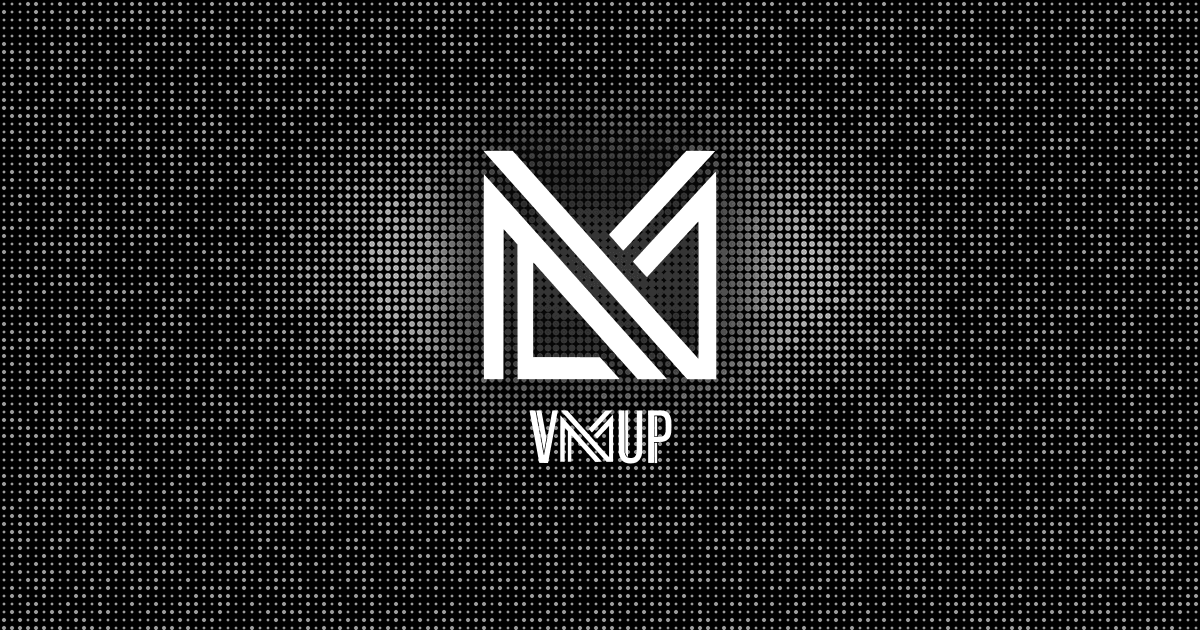
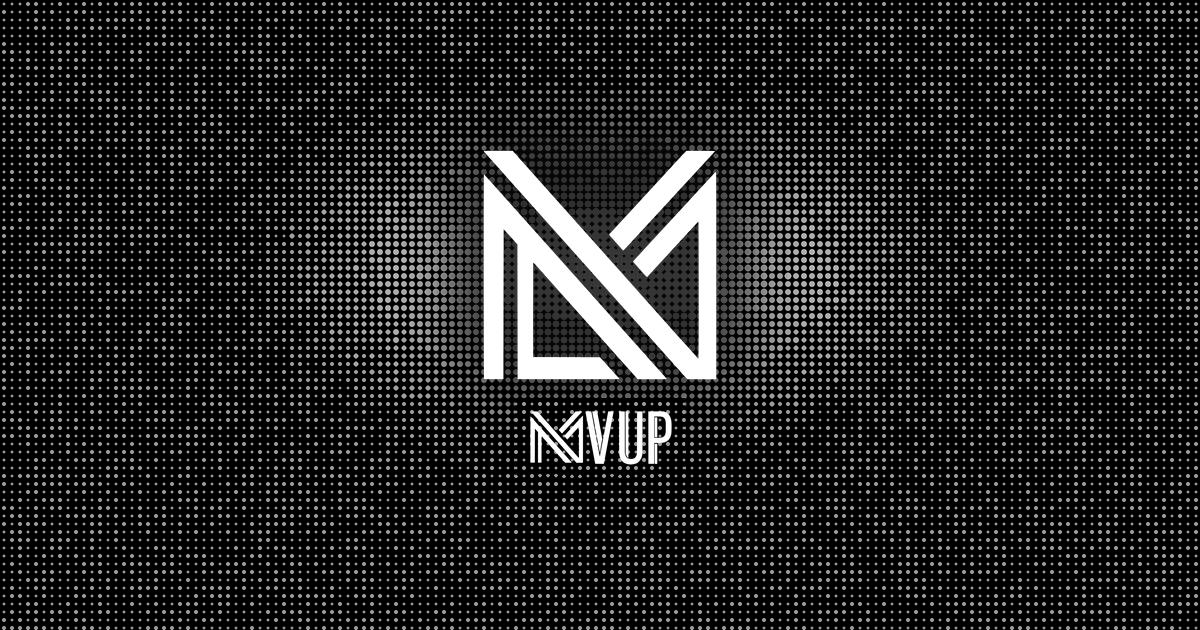
Logotipo corrigido de VNUP para NVUP
Reordena as letras do logotipo (símbolo, V, U, P), refaz a imagem de
compartilhamento e renomeia logo-vnup.png para logo-nvup.png.

Claude-Session: https://claude.ai/code/session_01Rvdn4qYE51dQqHw9Dcarz9

Changed region(s): [[0.4317, 0.6333, 0.5858, 0.754]]

diff --git a/src/data/logo.ts b/src/data/logo.ts
@@ -4,4 +4,4 @@ export const MARK_VIEWBOX = '0 0 1289 1267';
 export const MARK_PATH = 'M 5.2 5.2 C 3.6 7.2, 5.4 10.1, 13.0 17.8 C 14.4 19.3, 20.5 26.0, 26.5 32.9 C 32.5 39.7, 38.4 46.3, 39.5 47.4 C 40.6 48.6, 44.4 52.9, 48 56.9 C 51.5 61.0, 55.4 65.2, 56.5 66.4 C 57.6 67.5, 63.9 74.5, 70.5 82.0 C 83.2 96.5, 96.9 111.8, 101.0 116.1 C 102.3 117.5, 104.8 120.3, 106.5 122.2 C 108.1 124.1, 111.9 128.5, 115 132.0 C 118.0 135.5, 123.2 141.3, 126.5 144.9 C 129.9 148.5, 135.9 155.3, 140.0 160 C 147.1 168.2, 148.4 169.7, 155.2 177.0 C 157.0 178.9, 161.2 183.6, 164.5 187.4 C 167.8 191.2, 171.2 195.1, 172.1 196.0 C 173.0 197.0, 177.5 202.0, 182.0 207.1 C 186.6 212.3, 191.5 217.8, 193.1 219.5 C 199.0 225.8, 202.7 229.8, 208 236.0 C 211.0 239.5, 218.0 247.3, 223.5 253.4 C 229.0 259.5, 236.6 268.1, 240.4 272.5 C 244.3 276.9, 248.3 281.4, 249.4 282.5 C 250.5 283.6, 253.9 287.4, 257 290.9 C 260.0 294.4, 263.6 298.4, 265.0 299.9 C 266.5 301.3, 272.7 308.3, 279.0 315.5 C 285.2 322.6, 292.6 330.9, 295.4 334.0 C 298.2 337.0, 303.4 342.8, 307 346.8 C 310.5 350.9, 314.2 354.9, 315.0 355.8 C 316.5 357.4, 320.5 361.8, 345.3 389.9 C 350.9 396.2, 356.8 402.8, 358.5 404.6 C 360.1 406.4, 364.2 410.9, 367.5 414.6 C 370.8 418.3, 377.7 426.1, 383.0 431.9 C 388.2 437.7, 395.8 446.3, 399.9 451 C 403.9 455.6, 408.2 460.4, 409.3 461.6 C 410.5 462.7, 414.2 466.8, 417.5 470.5 C 420.8 474.3, 425.7 479.9, 428.5 482.9 C 431.3 486.0, 438.7 494.3, 444.9 501.5 C 451.2 508.6, 456.8 514.9, 457.5 515.5 C 458.1 516.0, 462.1 520.5, 466.4 525.5 C 470.7 530.4, 474.7 534.9, 475.3 535.5 C 476.0 536.0, 483.4 544.3, 491.9 554 C 500.4 563.6, 507.6 571.7, 508.0 572 C 508.4 572.2, 510.6 574.7, 513.0 577.5 C 515.3 580.2, 520.7 586.3, 525.0 591 C 537.0 604.2, 556.7 626.3, 565.3 636.3 C 569.7 641.3, 573.8 645.9, 574.5 646.4 C 575.2 647.0, 577.7 649.7, 580.1 652.5 C 582.5 655.3, 590.2 664.1, 597.3 672.0 C 604.4 680.0, 612.7 689.3, 615.8 692.8 C 618.9 696.3, 622.2 699.9, 623.0 700.8 C 626.2 704.1, 643.8 723.8, 654.4 736 C 660.4 742.8, 666.4 749.6, 667.9 751.1 C 669.3 752.5, 673.2 756.8, 676.5 760.5 C 679.8 764.3, 683.4 768.3, 684.5 769.4 C 685.6 770.5, 691.1 776.6, 696.6 783 C 702.1 789.3, 708.2 796.1, 710.1 798.2 C 714.2 802.6, 724.3 814.0, 728.5 818.8 C 731.6 822.4, 736.1 827.4, 740.8 832.5 C 742.4 834.1, 748.5 841.1, 754.5 848 C 764.9 859.9, 769.9 865.5, 778.2 874.4 C 785.5 882.2, 786.7 883.5, 795.7 894 C 800.6 899.7, 806.4 906.3, 808.6 908.5 C 810.7 910.7, 815.3 915.9, 818.9 920.0 C 825.2 927.3, 826.6 928.9, 833.2 936.0 C 835.0 938.0, 841.4 945.1, 847.5 951.9 C 853.5 958.7, 860.7 966.8, 863.5 969.9 C 866.2 973.0, 871.2 978.6, 874.5 982.4 C 877.8 986.1, 881.4 990.2, 882.6 991.3 C 883.7 992.5, 888.0 997.3, 892.0 1002 C 896.1 1006.6, 899.9 1010.9, 900.6 1011.5 C 901.2 1012.0, 905.4 1016.7, 910.0 1022 C 914.5 1027.2, 919.4 1032.6, 920.8 1034.1 C 922.3 1035.5, 925.0 1038.6, 927 1040.9 C 928.9 1043.2, 931.6 1046.4, 933 1047.9 C 940.9 1056.4, 946.9 1063.2, 959.9 1078 C 967.9 1087.0, 975.6 1095.6, 977.0 1097.0 C 978.3 1098.4, 981.9 1102.4, 985 1105.9 C 988.0 1109.3, 991.6 1113.3, 992.9 1114.8 C 995.2 1117.2, 1013.9 1138.2, 1021.5 1146.9 C 1027.6 1153.8, 1035.0 1162.0, 1042.9 1170.5 C 1043.9 1171.6, 1048.0 1176.3, 1052.0 1181 C 1055.9 1185.6, 1061.7 1192.2, 1064.8 1195.5 C 1067.9 1198.8, 1073.6 1205.1, 1077.5 1209.5 C 1081.3 1213.9, 1085.6 1218.7, 1087.0 1220.2 C 1089.8 1223.2, 1089.9 1223.3, 1110.4 1246.3 L 1125.3 1263 1205.1 1263 L 1285 1263 1285 691 C 1285 227.5, 1284.7 119, 1283.7 119 C 1283.0 119, 1278.9 122.9, 1274.5 127.7 C 1270.2 132.5, 1261.4 142.1, 1255.0 148.9 C 1248.7 155.8, 1241.0 164.0, 1238 167.3 C 1234.9 170.6, 1229.8 176.2, 1226.5 179.8 C 1223.2 183.3, 1219.0 187.9, 1217.1 189.9 C 1215.3 191.8, 1212.6 194.8, 1211.0 196.5 C 1205.6 202.4, 1180.5 229.6, 1172.0 238.8 C 1167.3 244.0, 1162.1 249.6, 1160.5 251.4 C 1158.8 253.1, 1153.4 259.0, 1148.5 264.4 C 1143.5 269.9, 1138.5 275.2, 1137.4 276.4 C 1136.3 277.5, 1127.5 287.0, 1118.0 297.5 C 1108.4 307.9, 1099.5 317.6, 1098.0 319.0 C 1095.8 321.2, 1092.0 325.4, 1075 344.1 C 1073.6 345.6, 1068.1 351.4, 1062.9 357.1 C 1057.6 362.8, 1048.3 372.9, 1042.3 379.5 C 1036.3 386.1, 1029.1 393.8, 1026.4 396.7 C 1023.7 399.6, 1018.8 405.0, 1015.5 408.6 C 1012.2 412.3, 1008.1 416.7, 1006.5 418.4 C 997.8 427.5, 978.0 448.9, 968.4 459.5 C 962.4 466.1, 956.4 472.6, 955.0 474.0 C 953.6 475.4, 948.6 480.7, 944 485.9 C 935.3 495.5, 933.6 497.3, 923.9 507.5 C 920.8 510.8, 910.7 521.8, 901.5 532 C 892.2 542.1, 883.5 551.6, 882.1 553.0 C 880.6 554.4, 876.8 558.6, 873.5 562.3 C 870.2 566.1, 865.0 571.8, 862 575.0 C 855.0 582.4, 840.2 598.4, 832.0 607.3 C 826.6 613.2, 826.0 614.3, 827.1 615.7 C 829.2 618.4, 857.0 650.2, 859.3 652.6 C 862.5 655.9, 865.0 658.7, 872.7 667.6 C 876.6 672.1, 881.3 677.5, 883.3 679.5 C 885.2 681.5, 890.1 686.9, 894.1 691.5 C 900.4 698.7, 904.9 702.0, 905.0 699.2 C 905.0 698.8, 907.1 696.2, 909.7 693.4 C 915.4 687.4, 928.7 673.2, 934.4 667 C 936.7 664.5, 946.4 653.9, 955.9 643.5 C 965.5 633.0, 974.6 623.1, 976.1 621.5 C 984.5 612.6, 991.3 605.2, 999.1 596.8 C 1003.8 591.7, 1014.1 580.5, 1022.0 572 C 1042.1 550.1, 1046.3 545.5, 1056 534.9 C 1060.6 529.8, 1066.0 523.9, 1068 521.9 C 1075.9 513.6, 1083.3 505.6, 1097.1 490.5 C 1105.1 481.7, 1113.8 472.2, 1116.4 469.5 C 1118.9 466.7, 1123.6 461.6, 1126.7 458.1 C 1129.9 454.6, 1133.6 450.6, 1135.0 449.1 C 1136.5 447.7, 1143.8 439.7, 1151.5 431.5 C 1159.1 423.2, 1168.0 413.5, 1171.4 409.9 C 1174.7 406.3, 1179.3 401.2, 1181.7 398.6 C 1184.0 395.9, 1186.3 394.1, 1186.9 394.4 C 1188.3 395.3, 1188.4 1148.6, 1187.0 1149.4 C 1186.5 1149.7, 1185.2 1148.8, 1184.0 1147.3 C 1182.9 1145.9, 1178.9 1141.3, 1175.2 1137.3 C 1164.4 1125.4, 1162.8 1123.6, 1157 1117.0 C 1153.9 1113.5, 1150.5 1109.7, 1149.4 1108.6 C 1148.2 1107.4, 1142.2 1100.6, 1136.0 1093.5 C 1129.7 1086.3, 1124.1 1080.0, 1123.4 1079.4 C 1122.8 1078.9, 1118.7 1074.4, 1114.3 1069.4 C 1102.4 1055.9, 1097.1 1050.1, 1090.5 1043.3 C 1083.0 1035.7, 1081.2 1033.7, 1071.4 1022.5 C 1067.1 1017.5, 1062.3 1012.1, 1060.8 1010.5 C 1057.0 1006.5, 1053.6 1002.6, 1047 994.9 C 1041.6 988.7, 1038.0 984.7, 1032.1 978.5 C 1029.5 975.6, 1020.3 965.1, 1008.5 951.5 C 1005.7 948.3, 1002.5 944.7, 1001.3 943.5 C 1000.2 942.4, 995.7 937.4, 991.4 932.5 C 987.1 927.5, 981.7 921.4, 979.4 919 C 977.1 916.5, 971.2 910, 966.4 904.5 C 961.6 899, 956.9 893.6, 955.8 892.5 C 953.0 889.4, 948.0 883.8, 942 876.9 C 938.9 873.4, 932.2 865.8, 926.9 860.0 C 921.7 854.2, 914.0 845.6, 910.0 841 C 905.9 836.3, 901.7 831.5, 900.5 830.3 C 899.4 829.2, 897.0 826.5, 895.1 824.3 C 891.5 820.1, 891.6 820.1, 877.8 805 C 872.6 799.2, 863.8 789.3, 858.3 783 C 852.9 776.6, 847.0 770.1, 845.4 768.4 C 842.2 765.1, 834.7 756.7, 816.0 735.5 C 809.2 727.8, 802.7 720.5, 801.5 719.3 C 800.4 718.2, 798.1 715.6, 796.5 713.7 C 787.1 702.9, 782.1 697.3, 779.1 694.0 C 777.2 692.1, 770.9 685.1, 765.2 678.5 C 754.5 666.3, 743.0 653.4, 732.9 642.5 C 729.8 639.2, 722.5 630.8, 716.5 624 C 710.5 617.1, 704.7 610.6, 703.5 609.5 C 702.2 608.4, 697.0 602.5, 691.9 596.5 C 686.7 590.4, 681.4 584.3, 680.0 582.9 C 678.6 581.6, 673 575.3, 667.5 569.0 C 662 562.7, 656.1 556.1, 654.5 554.4 C 652.8 552.6, 649.0 548.3, 646 544.8 C 642.9 541.3, 639.3 537.3, 637.9 536.0 C 636.5 534.6, 628.7 525.8, 620.5 516.5 C 612.2 507.1, 605.3 499.2, 604.9 499 C 604.6 498.7, 600.8 494.4, 596.5 489.5 C 592.2 484.5, 587.9 479.8, 587.0 479 C 586.1 478.1, 582.2 473.9, 578.4 469.5 C 574.6 465.1, 571.2 461.2, 571 461 C 570.7 460.7, 567.1 456.6, 563 452.0 C 558.8 447.3, 554.8 442.8, 554 441.9 C 553.1 441.1, 549.8 437.3, 546.5 433.5 C 543.2 429.8, 539.7 426.0, 538.8 425.1 C 537.9 424.2, 533.7 419.4, 529.5 414.5 C 525.2 409.5, 521.2 405.0, 520.6 404.5 C 519.9 403.9, 512.8 396.0, 504.9 387 C 496.9 377.9, 489.0 369.1, 487.4 367.4 C 482.8 362.6, 470.5 348.8, 457.9 334.5 C 451.7 327.3, 445.4 320.3, 444.0 318.8 C 442.6 317.4, 440.1 314.7, 438.5 312.8 C 436.8 310.9, 433.0 306.5, 430 303.0 C 426.9 299.6, 423.1 295.3, 421.4 293.6 C 419.8 291.9, 412.2 283.3, 404.6 274.7 C 397.0 266.0, 389.8 257.8, 388.6 256.6 C 383.4 251.1, 369.3 235.4, 358.9 223.5 C 352.6 216.3, 346.6 209.5, 345.5 208.4 C 344.4 207.3, 340.8 203.3, 337.5 199.6 C 334.2 195.8, 330.1 191.3, 328.5 189.4 C 326.8 187.6, 324.5 185.1, 323.4 183.8 C 315.7 175.0, 303.2 161.1, 301.5 159.4 C 300.4 158.2, 297.0 154.4, 294 150.9 C 287.7 143.6, 285.3 140.9, 277.7 132.5 C 267.3 121.0, 245.4 96.4, 238.5 88.4 C 234.7 84.0, 230.9 79.8, 230.0 79 C 229.1 78.1, 225.0 73.6, 220.9 69 C 216.8 64.3, 213.0 60.0, 212.3 59.5 C 211.7 58.9, 206.1 52.6, 199.9 45.5 C 193.7 38.3, 187.3 31.0, 185.6 29.1 C 183.8 27.3, 181.5 24.9, 180.4 23.6 C 179.2 22.4, 175.2 17.9, 171.4 13.5 C 167.6 9.1, 164.0 5.1, 163.5 4.7 C 161.6 3.3, 6.3 3.8, 5.2 5.2 M 1120.3 4.6 C 1119.2 5.0, 1103.6 21.5, 1085.5 41.3 C 1076.5 51.2, 1076.2 51.6, 1059.8 69.0 C 1053.5 75.9, 1046.5 83.5, 1044.3 86.0 C 1041.0 89.9, 1034.4 97.0, 1023.5 108.5 C 1021.8 110.2, 1016.6 115.9, 1012 121.0 C 1007.3 126.2, 1002.1 131.8, 1000.5 133.6 C 997.4 136.9, 986.0 149.3, 972.9 163.5 C 968.9 167.9, 962.6 174.6, 959.0 178.5 C 955.4 182.4, 948.6 189.8, 944 195.0 C 939.3 200.2, 934.1 205.8, 932.5 207.5 C 930.8 209.2, 925.2 215.3, 920 220.9 C 914.7 226.6, 909.3 232.4, 908 233.9 C 906.6 235.4, 901.2 241.3, 896 247.0 C 890.7 252.8, 885.1 258.9, 883.4 260.6 C 881.7 262.4, 876.9 267.6, 872.9 272.1 C 868.8 276.7, 864.3 281.6, 863 283.0 C 861.6 284.4, 856.4 289.9, 851.5 295.3 C 842.4 305.1, 839.7 308.1, 831.0 317.5 C 828.5 320.2, 821.0 328.3, 814.4 335.5 C 798.3 353.0, 794.0 357.7, 790.5 361.5 C 788.8 363.2, 783.4 369.0, 778.5 374.4 C 773.5 379.8, 768.1 385.7, 766.5 387.5 C 764.8 389.2, 759.2 395.3, 754 401.0 C 748.7 406.7, 741.1 415.0, 737.0 419.4 C 732.9 423.8, 727.1 430.2, 724.0 433.5 C 706.9 452.2, 700.2 459.4, 697.6 461.9 C 693.7 465.6, 694.4 467.9, 701.6 475.3 C 704.7 478.6, 710.4 484.9, 714.3 489.3 C 722.9 499.4, 724.9 501.6, 727.5 504.3 C 729.8 506.7, 740.6 518.9, 751.5 531.4 C 755.3 535.8, 760.7 541.8, 763.4 544.7 C 766.1 547.6, 768.9 550.9, 769.7 552.0 C 772.3 555.7, 772.6 555.5, 799.5 526.1 C 802.8 522.5, 807.0 518.0, 809 515.9 C 813.7 511.0, 819.5 504.7, 833.4 489.5 C 839.9 482.3, 846.4 475.3, 847.8 473.9 C 849.3 472.5, 853.2 468.3, 856.5 464.6 C 862.9 457.3, 862.9 457.2, 879.5 439.4 C 885.6 432.8, 896.6 420.9, 903.9 413 C 911.3 405.0, 920.2 395.3, 923.9 391.4 C 927.5 387.5, 934.3 380.1, 939 374.9 C 943.6 369.8, 948.4 364.6, 949.5 363.5 C 958.5 353.9, 968.0 343.7, 976.5 334.5 C 982 328.5, 987.6 322.4, 989 320.9 C 990.3 319.5, 995.5 313.9, 1000.5 308.5 C 1011.3 296.6, 1020.4 286.7, 1024.5 282.4 C 1026.1 280.7, 1031.3 275.0, 1036.1 269.8 C 1040.8 264.7, 1050.9 253.7, 1058.6 245.4 C 1066.2 237.1, 1076.3 226.1, 1081 221.0 C 1085.6 215.9, 1091.0 210.0, 1093 208.0 C 1102.9 197.5, 1121.6 177.2, 1142.4 154.5 C 1147.4 149.1, 1153.0 143.0, 1155 141.0 C 1156.9 139.0, 1161.2 134.3, 1164.5 130.6 C 1167.8 126.9, 1173.2 121.1, 1176.5 117.6 C 1183.9 109.7, 1188.5 104.8, 1203.4 88.5 C 1210.0 81.3, 1217.4 73.2, 1220.0 70.5 C 1229.4 60.3, 1231.6 58.0, 1237.5 51.4 C 1240.8 47.7, 1246.2 41.9, 1249.5 38.4 C 1262.7 24.6, 1278.5 6.8, 1278.5 5.7 C 1278.5 4.5, 1123.2 3.4, 1120.3 4.6 M 4.6 135.5 C 3.1 139.2, 3.9 1260.7, 5.3 1261.8 C 6.3 1262.7, 21.3 1262.9, 59.6 1262.7 L 112.5 1262.5 113 850.3 C 113.2 623.6, 113.7 437.9, 114.0 437.5 C 114.4 437.2, 117.7 440.4, 121.5 444.6 C 125.3 448.8, 129.6 453.5, 131 455.0 C 132.3 456.5, 136.0 460.6, 139.1 464.1 C 183.5 514.2, 179.9 510.2, 186 516.4 L 189.5 520.0 190 891.2 L 190.5 1262.5 469 1262.7 C 622.1 1262.9, 748.5 1262.8, 749.7 1262.4 C 752.6 1261.8, 751.6 1259.7, 745.7 1253.6 C 743.5 1251.3, 736.3 1243.4, 729.7 1236 C 717.4 1222.1, 702.0 1205.2, 698.5 1201.5 C 697.4 1200.4, 693.1 1195.6, 689.0 1191.0 C 685.0 1186.3, 681.3 1182.2, 681.0 1182 C 680.6 1181.7, 676.3 1176.9, 671.4 1171.4 C 666.5 1165.9, 660.2 1159.0, 657.5 1156.0 C 654.7 1153.0, 650.6 1148.5, 648.3 1146.0 L 644.1 1141.5 460.3 1141 L 276.5 1140.5 276.2 881.6 C 276.1 739.3, 276.3 622.2, 276.7 621.4 C 277.8 619.5, 278.9 620.6, 290.5 634 C 296.0 640.3, 303.0 648.2, 306.1 651.5 C 309.2 654.8, 316.4 662.9, 322.1 669.5 C 327.8 676.1, 333.6 682.6, 335.0 684.0 C 339.3 688.4, 346.9 696.9, 361.9 714 C 369.9 723.0, 377.6 731.6, 379.0 733.0 C 380.3 734.4, 383.9 738.4, 387 741.9 C 390.0 745.4, 393.6 749.5, 394.9 750.9 C 396.3 752.3, 401.9 758.6, 407.5 765 C 413.1 771.3, 419.0 777.8, 420.5 779.5 C 422.1 781.1, 426.5 786.1, 430.3 790.5 C 434.1 794.9, 438.1 799.4, 439.3 800.6 C 440.5 801.8, 442.4 803.8, 443.5 805.1 C 447.7 809.8, 455.6 818.8, 462.5 826.5 C 466.3 830.8, 471.9 837.2, 475 840.5 C 478.0 843.9, 482.9 849.4, 486 852.9 C 489.0 856.4, 493.0 860.9, 495 862.9 C 498.4 866.5, 513.6 883.5, 529.4 901.4 C 533.7 906.3, 538.0 911.0, 538.9 911.9 C 539.7 912.9, 543.2 916.7, 546.5 920.5 C 549.8 924.3, 553.4 928.3, 554.5 929.5 C 557.7 932.9, 573.0 950.0, 579 956.9 C 582.0 960.4, 585.6 964.5, 586.9 965.9 C 588.3 967.3, 592.8 972.3, 596.9 976.9 C 600.9 981.6, 605.0 986.1, 606.0 986.9 C 606.9 987.8, 611.7 993.2, 616.7 999 C 621.7 1004.7, 627.5 1011.3, 629.5 1013.5 C 631.6 1015.7, 636.3 1020.8, 639.9 1025 C 643.5 1029.1, 647.6 1033.7, 649.0 1035.2 C 650.3 1036.6, 653.7 1040.5, 656.6 1043.7 C 659.4 1046.8, 666.3 1054.6, 672.1 1061 C 677.8 1067.3, 685.4 1075.8, 688.9 1080 C 692.4 1084.1, 696.5 1088.6, 697.9 1090.1 C 699.3 1091.5, 703.4 1096.0, 707 1100.0 C 710.5 1104.0, 714.1 1108.0, 715.0 1108.8 C 715.9 1109.7, 721.4 1116.1, 727.4 1123 C 733.4 1129.8, 739.5 1136.8, 741.1 1138.5 C 745.0 1142.7, 749.9 1148.0, 754 1152.6 C 755.9 1154.8, 760.7 1160.1, 764.6 1164.5 C 768.5 1168.9, 775.9 1177.2, 781.0 1183 C 793.2 1196.8, 804.9 1209.8, 807.9 1212.9 C 809.2 1214.3, 816.6 1222.6, 824.3 1231.4 C 832.0 1240.2, 840.7 1249.9, 843.7 1253.0 C 846.6 1256.0, 849.7 1259.5, 850.5 1260.7 L 852.1 1263 932.5 1263 C 985.9 1263, 1013 1262.6, 1013 1261.9 C 1013 1261.1, 1002.1 1248.3, 993.8 1239.5 C 982.3 1227.1, 979.0 1223.4, 979.0 1222.9 C 979.0 1222.5, 977.5 1220.7, 975.7 1218.8 C 968.9 1211.6, 953.9 1195.1, 946.8 1186.9 C 942.8 1182.3, 938.6 1177.5, 937.5 1176.3 C 936.4 1175.2, 933.9 1172.5, 932.1 1170.3 C 930.2 1168.2, 925.2 1162.6, 921.0 1158 C 911.9 1147.9, 891.9 1125.5, 880.0 1112.0 C 875.4 1106.8, 871.1 1102.0, 870.5 1101.5 C 869.8 1100.9, 866.2 1096.9, 862.4 1092.5 C 854.8 1083.7, 850.1 1078.4, 842.4 1070.0 C 839.7 1066.9, 835.6 1062.4, 833.4 1059.9 C 831.2 1057.4, 826.0 1051.6, 821.8 1046.9 C 812.7 1036.8, 788.9 1010.1, 780.5 1000.5 C 777.2 996.8, 773.5 992.7, 772.3 991.6 C 771.1 990.4, 768.2 987.2, 765.8 984.4 C 760.9 978.6, 733.2 947.5, 728.1 942.0 C 722.8 936.3, 720.7 933.9, 713.9 926 C 710.4 921.8, 706.3 917.3, 704.8 916 C 703.4 914.6, 697.3 907.8, 691.4 901 C 685.5 894.1, 679.8 887.6, 678.7 886.5 C 677.7 885.4, 675.4 882.8, 673.7 880.9 C 671.9 878.9, 668.0 874.6, 665 871.4 C 661.9 868.1, 653.0 858.0, 645.0 849.0 C 637.1 839.9, 630.0 832.0, 629.4 831.5 C 628.7 830.9, 624.9 826.6, 620.9 822 C 617.0 817.3, 613.0 812.8, 612.0 812 C 610.5 810.7, 600.6 799.5, 585.5 782.0 C 583.3 779.5, 580.6 776.5, 579.5 775.4 C 578.4 774.2, 575.0 770.4, 572 766.9 C 568.9 763.4, 565.1 759.2, 563.4 757.5 C 561.7 755.8, 557.2 750.9, 553.4 746.5 C 549.6 742.1, 546.0 738.0, 545.4 737.5 C 544.8 736.9, 539.2 730.6, 533.0 723.5 C 526.8 716.3, 520.5 709.2, 519.1 707.8 C 517.6 706.3, 513.8 702.1, 510.5 698.3 C 507.2 694.6, 501.9 688.8, 498.9 685.5 C 495.8 682.2, 488.2 673.6, 481.9 666.5 C 475.7 659.3, 470.0 653.0, 469.3 652.5 C 468.7 651.9, 464.9 647.6, 461 643 C 457.0 638.3, 453.2 634.0, 452.5 633.5 C 451.5 632.7, 436.6 615.8, 425.9 603.5 C 423.6 600.8, 411.6 587.6, 405.5 580.9 C 402.7 577.9, 397.3 571.9, 393.5 567.5 C 386.0 558.7, 375.2 546.6, 370.5 541.5 C 368.8 539.7, 365.0 535.5, 362 532.0 C 358.9 528.6, 355.1 524.3, 353.5 522.5 C 351.8 520.7, 345.5 513.7, 339.5 506.9 C 333.5 500.0, 328.1 494.0, 327.4 493.5 C 326.8 492.9, 323.0 488.6, 319.0 484 C 315.0 479.3, 310.8 474.5, 309.6 473.3 C 304.2 467.8, 299.9 462.9, 294.4 456.5 C 289.3 450.4, 275.6 435.0, 266.8 425.5 C 261.5 419.6, 257.4 415.1, 255.0 412.3 C 250.6 407.2, 243.8 399.6, 235.5 390.5 C 230.9 385.5, 223.8 377.4, 219.5 372.5 C 215.3 367.5, 211.2 363.0, 210.5 362.5 C 209.8 361.9, 206.0 357.6, 202 353 C 197.9 348.3, 194.1 344.0, 193.4 343.5 C 192.8 342.9, 185.5 334.8, 177.4 325.5 C 169.2 316.1, 161.7 307.8, 160.8 307 C 159.9 306.1, 155.8 301.6, 151.9 297 C 147.9 292.3, 144.1 288.0, 143.4 287.5 C 142.8 286.9, 136.9 280.4, 130.4 273 C 119.6 260.5, 107.9 247.4, 100.5 239.4 C 96.5 235.1, 95.4 233.9, 81.0 217.5 C 74.2 209.8, 68.3 203.2, 68.0 203 C 67.7 202.7, 64.1 198.6, 60.1 194 C 56.0 189.3, 51.9 184.7, 50.9 183.8 C 49.9 182.9, 45.7 178.4, 41.7 173.7 C 28.0 157.8, 8.8 136.5, 7.0 135.2 C 5.5 134.1, 5.1 134.1, 4.6 135.5';
 
 export const WORD_VIEWBOX = '0 0 1278 483';
-export const WORD_PATH = 'M 4 5.5 C 4 6.3, 4.8 10.9, 5.8 15.7 C 6.9 20.5, 8.0 26.7, 8.4 29.5 C 8.8 32.2, 10.1 39.6, 11.5 46 C 12.8 52.3, 14.5 61.5, 15.4 66.5 C 16.2 71.4, 17.6 79.1, 18.5 83.5 C 19.3 87.9, 21.4 98.9, 23.1 108 C 24.8 117.0, 27.3 130.1, 28.7 137 C 30.1 143.8, 31.6 152.4, 32.0 156 C 32.5 159.5, 33.7 166.3, 34.9 171 C 36.0 175.6, 37.4 183.0, 38.0 187.3 C 38.6 191.6, 40.4 200.9, 42.0 207.8 C 43.6 214.8, 44.9 221.7, 44.9 223.2 C 44.9 224.7, 46.3 231.9, 47.8 239.2 C 49.4 246.5, 51.0 254.9, 51.4 258 C 51.8 261.0, 53.0 267.3, 54.1 271.9 C 55.1 276.6, 56.5 283.8, 57.1 287.9 C 57.6 292.1, 59.0 299.1, 60.0 303.5 C 61.0 307.9, 62.6 316.1, 63.4 321.7 C 64.2 327.4, 65.6 334.6, 66.4 337.8 C 67.2 341.0, 68.4 347.2, 69.0 351.6 C 69.6 355.9, 71.0 363.2, 72.1 367.8 C 73.1 372.5, 74.4 379.4, 75.0 383.3 C 75.5 387.3, 77.3 396.8, 78.9 404.5 C 83.0 423.9, 87.0 444.8, 88.6 455.5 C 89.4 460.5, 90.6 466.6, 91.3 469.0 L 92.5 473.5 130.8 473.7 L 169.0 474.0 169.8 471.7 C 170.8 469.2, 172.2 462.0, 176.9 436 C 178.7 426.3, 181.4 411.9, 183.1 404 C 184.7 396.0, 186.5 386.5, 187.0 383 C 187.5 379.4, 189.1 371.1, 190.4 364.5 C 191.7 357.9, 194.2 344.6, 196.0 335 C 197.7 325.3, 200.1 313, 201.1 307.5 C 202.2 302, 203.7 293.4, 204.5 288.5 C 205.4 283.5, 207.1 274.3, 208.4 268 C 209.7 261.6, 211.2 253.5, 211.7 250 C 213.0 241.4, 216.4 224.0, 220.1 206 C 221.8 198.0, 223.7 187.4, 224.5 182.5 C 225.3 177.5, 226.6 170.3, 227.5 166.5 C 228.3 162.6, 229.5 156.3, 230.0 152.5 C 230.6 148.6, 232.1 140.3, 233.4 134 C 237.4 114.4, 242.0 89.5, 242.0 88 C 241.9 87.1, 243.2 79.9, 244.8 72 C 247.5 59.1, 250.6 42.6, 255.4 16 C 256.3 11.3, 257.0 6.7, 257.0 5.7 C 257 4.1, 255.1 4, 233.0 4 L 209.0 4 208.0 7.6 C 207.5 9.6, 206.5 14.7, 205.9 18.8 C 205.3 23.0, 203.7 31.4, 202.4 37.5 C 201.0 43.5, 199.5 51.8, 199.0 56 C 198.5 60.1, 197.1 67.3, 196.0 72 C 194.9 76.6, 193.6 84.2, 193.0 88.7 C 192.5 93.2, 191.3 99.6, 190.5 102.9 C 189.6 106.2, 188.2 113.5, 187.4 119.2 C 186.5 124.8, 185.0 132.8, 184.0 137 C 182.9 141.1, 181.6 148.1, 180.9 152.5 C 180.2 156.9, 178.6 165.4, 177.3 171.5 C 176.0 177.5, 174.5 185.8, 174.0 190 C 173.4 194.1, 172.1 201.2, 171.0 205.8 C 169.9 210.3, 168.7 216.6, 168.3 219.8 C 168.0 222.9, 166.7 230.0, 165.4 235.6 C 164.1 241.2, 162.6 249.3, 162.0 253.6 C 161.5 257.9, 159.9 266.4, 158.5 272.5 C 157.1 278.5, 156.0 284.6, 156.0 286 C 156.0 287.3, 154.4 295.9, 152.5 305 C 150.6 314.0, 148.6 324.2, 148.1 327.5 C 147.6 330.8, 146.2 338.6, 145.0 345 C 141.7 362.1, 137.3 385.3, 135.5 395.4 C 133.1 408.3, 132.5 408.5, 130.7 397.3 C 129.8 391.9, 128.1 382.7, 127.0 377 C 125.9 371.2, 123.6 358.8, 121.9 349.5 C 120.1 340.1, 117.2 325.2, 115.3 316.2 C 113.5 307.3, 112.0 299.0, 112.0 297.7 C 112.0 296.5, 110.7 288.9, 109.1 281 C 103.7 254.4, 101.7 243.5, 100.3 234.8 C 99.6 230.0, 98.3 223.0, 97.4 219.3 C 96.6 215.5, 95.2 208.3, 94.4 203.1 C 93.6 198.0, 92.1 189.7, 91.0 184.6 C 89.9 179.6, 88.8 173.4, 88.4 171 C 87.7 165.8, 83.3 142.5, 78.9 121 C 77.3 113.0, 75.6 103.3, 75.0 99.5 C 74.5 95.6, 73.1 88.2, 71.9 83 C 70.8 77.7, 69.4 70.1, 68.8 66 C 68.3 61.8, 66.9 54.8, 65.9 50.3 C 64.8 45.8, 63.5 38.7, 63.0 34.5 C 62.4 30.3, 61.1 23.2, 60.1 18.7 C 59.0 14.2, 57.8 9.0, 57.5 7.2 L 56.8 4 30.4 4 C 7.5 4, 4 4.2, 4 5.5 M 64.6 4.8 C 64.3 5.2, 64.9 8.9, 65.9 13.0 C 67.0 17.1, 68.3 24.3, 69.0 29 C 69.6 33.6, 71.0 41.1, 72.0 45.6 C 73.1 50.1, 74.4 57.2, 75.0 61.6 C 75.5 65.9, 77.1 74.1, 78.5 79.9 C 79.9 85.7, 81.5 94.1, 82.0 98.5 C 82.6 102.9, 83.9 110.3, 85.0 115 C 86.1 119.6, 87.5 127.0, 88.0 131.3 C 88.6 135.6, 90.1 143.7, 91.4 149.3 C 92.7 154.9, 94.0 162.2, 94.4 165.5 C 94.7 168.8, 95.9 175.1, 96.9 179.5 C 98.0 183.9, 99.5 192.1, 100.4 197.7 C 101.2 203.4, 102.6 210.7, 103.5 214.0 C 104.3 217.3, 105.5 223.7, 106.0 228.2 C 106.6 232.7, 107.9 240.1, 109.0 244.5 C 110.1 248.9, 111.5 255.8, 112.0 260 C 112.5 264.1, 114.3 273.5, 115.9 281 C 117.5 288.4, 119.2 297.4, 119.7 301 C 120.2 304.5, 121.6 312.4, 122.8 318.5 C 124.0 324.5, 125.6 333.1, 126.4 337.5 C 127.2 341.9, 128.5 348.8, 129.3 353 C 130.1 357.1, 131.2 362.9, 131.6 366 C 132.8 373.7, 134.2 372.8, 135.7 363.5 C 136.4 359.1, 138.1 349.4, 139.5 342 C 140.9 334.5, 142.7 324.2, 143.4 319 C 144.2 313.7, 145.7 305, 146.8 299.5 C 147.9 294, 149.2 286.1, 149.8 282 C 150.4 277.8, 152.0 269.1, 153.4 262.5 L 156.0 250.5 152.5 234 C 150.6 224.9, 148.6 214.5, 148.1 211 C 147.5 207.4, 146.2 200, 145.1 194.5 C 144.0 189, 141.7 176.6, 140.0 167 C 138.2 157.3, 135.5 142.7, 134.0 134.5 C 132.4 126.2, 129.7 111.6, 128.0 102 C 126.2 92.3, 123.7 79.1, 122.4 72.5 C 121.1 65.9, 119.3 56, 118.4 50.5 C 117.5 45, 115.9 36.9, 114.9 32.5 C 113.8 28.1, 112.5 20.7, 111.9 16.0 C 110.3 2.9, 112.4 4, 87.0 4 C 74.9 4, 64.8 4.3, 64.6 4.8 M 284 4.9 C 284 5.8, 291.5 14.7, 296.4 19.5 C 297.5 20.6, 300.9 24.4, 304 27.9 C 313.6 39.1, 314.7 40.3, 320.2 46.5 C 332.9 60.5, 338.0 66.2, 348 77.5 C 353.7 84.0, 359.8 90.8, 361.5 92.6 C 363.1 94.3, 367.2 98.8, 370.6 102.6 C 384.8 118.6, 397.6 132.9, 403.3 139.4 C 406.7 143.2, 410.8 147.8, 412.5 149.5 C 414.1 151.3, 417.9 155.5, 421 159.0 C 424.0 162.5, 427.2 166.1, 428.1 167.0 C 428.9 167.9, 436.4 176.3, 444.5 185.6 C 452.7 194.8, 460.5 203.6, 461.9 205.0 C 463.3 206.4, 466.9 210.4, 470 213.8 C 473.0 217.3, 476.6 221.3, 477.9 222.8 C 479.3 224.3, 485.6 231.3, 491.9 238.5 C 504.6 253.0, 507.1 255.8, 511.5 260.4 C 513.1 262.1, 516.9 266.4, 520 269.9 C 523.0 273.4, 526.4 277.2, 527.6 278.4 C 528.7 279.5, 532.9 284.3, 536.9 289 C 540.9 293.6, 548.3 301.9, 553.3 307.4 C 563.7 318.7, 567.6 323.1, 571.5 327.6 C 572.9 329.3, 575.3 332.0, 576.8 333.6 C 578.2 335.2, 584.8 342.5, 591.3 350 C 597.9 357.4, 603.6 363.7, 604.0 364 C 604.4 364.2, 607.9 368.3, 611.9 373 C 615.9 377.6, 620.4 382.7, 621.8 384.1 C 625.8 388.2, 629.0 391.8, 636.0 400 C 641.3 406.2, 651.3 417.4, 664.6 432 C 669.1 436.9, 673.6 441.9, 679 448.0 C 682.0 451.5, 686.4 456.5, 688.8 459.1 L 693.2 464 722.0 464 C 737.9 464, 751.1 463.6, 751.4 463.1 C 752.2 461.8, 752.3 42.0, 751.5 41.2 C 751.1 40.8, 749.0 42.5, 746.7 45.0 C 744.4 47.4, 738.1 54.3, 732.5 60.3 C 727.0 66.3, 722.2 71.5, 722.0 71.9 C 721.5 72.7, 702.6 93.1, 696 100.0 C 694.0 102.0, 688.2 108.3, 683 114.0 C 669.7 128.5, 660.1 139.0, 657.0 142.1 C 655.6 143.5, 652.0 147.5, 649 150.9 C 645.9 154.4, 640.8 160.1, 637.5 163.5 C 608.7 193.9, 583 222.4, 583 223.7 C 583 224.5, 584.4 226.8, 586.1 228.8 C 590.0 233.3, 604.7 249.5, 607.7 252.7 L 610.0 255.1 612.9 253.0 C 614.6 251.8, 616.3 250.2, 616.7 249.5 C 617.3 248.4, 629.1 235.5, 640.5 223.5 C 642.1 221.7, 647.5 215.9, 652.5 210.5 C 657.4 205.1, 663.2 198.8, 665.3 196.6 C 667.5 194.4, 673.3 188.0, 678.3 182.5 C 683.3 177.0, 692.4 167.1, 698.6 160.5 C 704.7 153.9, 710.9 147.1, 712.3 145.5 C 713.7 143.8, 715.0 142.7, 715.4 143.0 C 715.7 143.4, 715.8 206.1, 715.7 282.5 L 715.5 421.5 713 418.9 C 711.6 417.5, 708.0 413.5, 705 410.0 C 701.9 406.5, 698.5 402.7, 697.4 401.5 C 696.3 400.4, 691.4 395, 686.5 389.5 C 681.6 384, 676.6 378.5, 675.5 377.4 C 674.4 376.2, 671.0 372.4, 668 368.9 C 663.0 363.1, 658.8 358.5, 653.1 352.5 C 652.1 351.4, 645.9 344.4, 639.5 337 C 627.2 322.9, 614.2 308.4, 610.0 304.0 C 608.6 302.6, 602.8 296.1, 597.1 289.5 C 591.4 282.9, 583.0 273.4, 578.5 268.5 C 573.9 263.5, 568.3 257.2, 566.0 254.5 C 561.7 249.4, 559.4 246.9, 554.9 242.1 C 553.5 240.7, 547.0 233.4, 540.5 226 C 519.1 201.7, 514.5 196.5, 511.5 193.5 C 509.8 191.8, 505.3 186.8, 501.5 182.4 C 497.6 178.0, 490.4 170, 485.5 164.5 C 480.5 159, 473.3 150.9, 469.5 146.5 C 465.7 142.1, 461.4 137.3, 460.0 135.8 C 458.6 134.4, 456.1 131.7, 454.5 129.8 C 452.8 127.9, 448.5 123.0, 444.8 118.9 C 441.2 114.8, 432.5 104.9, 425.4 97 C 418.3 89.0, 412.1 82.0, 411.4 81.5 C 410.8 80.9, 406.7 76.4, 402.4 71.5 C 398.1 66.5, 394.3 62.2, 394.0 62 C 393.6 61.7, 386.5 53.6, 378.0 44 C 369.6 34.3, 362.2 26.0, 361.5 25.5 C 360.8 24.9, 357.0 20.7, 353.0 16.0 C 341.6 2.8, 345.5 4, 312.5 4 C 294.4 4, 284 4.3, 284 4.9 M 682.9 7.2 C 678.0 11.9, 636.3 57.1, 620.9 74.4 C 618.4 77.2, 614.2 81.8, 611.4 84.7 C 603.5 92.9, 574.6 124.2, 560.5 139.9 C 556.2 144.6, 544.1 157.7, 537.7 164.4 C 533.0 169.4, 533.0 169.3, 539.0 176 C 541.7 179.0, 546.8 184.6, 550.2 188.4 C 560.4 199.7, 561.6 201, 562.6 201 C 563.8 201, 567.3 197.5, 574.5 189.4 C 577.8 185.6, 581.6 181.4, 583.0 180.0 C 585.8 177.2, 608.2 153.0, 613.9 146.5 C 615.9 144.3, 619.3 140.6, 621.5 138.4 C 623.7 136.1, 629.3 130.0, 634 124.9 C 645.6 112.3, 647.5 110.1, 654.4 102.8 C 657.7 99.3, 667.6 88.6, 676.3 79 C 685.1 69.3, 693.7 59.9, 695.6 58 C 701.8 51.4, 710.4 42.1, 716.5 35.4 C 719.8 31.8, 724.9 26.2, 727.9 23.1 C 735.8 15.0, 744 5.6, 744 4.7 C 744 4.3, 731.0 4, 715.1 4 L 686.3 4 682.9 7.2 M 802.6 4.6 C 802.3 5.0, 802.0 87.4, 802.0 187.9 C 802.0 391.1, 801.9 387.7, 808.3 408.5 C 822.7 454.9, 851.2 476.1, 902.5 478.6 C 922.5 479.6, 954.9 473.1, 963 466.5 C 963.8 465.8, 966.5 464.1, 969.1 462.6 C 974.3 459.7, 985.9 448.5, 989.8 442.6 C 998.1 430.3, 1005.1 415.8, 1006.8 407.3 C 1007.3 404.6, 1008.8 398.2, 1010.1 393 L 1012.5 383.5 1012.5 194 L 1012.5 4.5 988.5 4.2 C 970.0 4.0, 964.4 4.2, 963.8 5.2 C 963.3 5.9, 963.0 90.0, 963.0 192.1 C 962.9 390.9, 963.1 382.5, 958.1 397.0 C 954.4 407.7, 947.5 417.7, 941.2 421.3 C 940.1 421.9, 937.9 423.2, 936.2 424.1 C 926.0 430.0, 906.2 431.5, 891.3 427.6 C 872.1 422.6, 862.2 411.1, 856.6 387.4 L 854 376.3 854 191.7 C 854 90.2, 853.7 6.4, 853.3 5.5 C 852.8 4.1, 849.6 4, 828.0 4 C 814.4 4, 803.0 4.3, 802.6 4.6 M 860.2 192.2 L 860.6 380.5 863.1 389 C 866.8 401.1, 871.5 409.3, 878.3 415.6 C 881.5 418.5, 884.5 421, 885.0 421 C 885.6 421, 886 342.4, 886 212.5 L 886 4 872.9 4 L 859.9 4 860.2 192.2 M 1065.2 238.7 L 1065.5 473.5 1090.9 473.7 C 1110.6 473.9, 1116.5 473.7, 1117.1 472.7 C 1117.6 472.0, 1117.9 430.0, 1117.9 379.3 L 1118 287.1 1150.7 286.7 C 1168.7 286.4, 1187.3 285.7, 1192 285.1 C 1202.0 283.7, 1218.6 278.5, 1225.2 274.7 C 1227.7 273.2, 1230.2 272, 1230.7 272 C 1231.2 272, 1232.7 270.8, 1234 269.5 C 1235.2 268.1, 1236.8 267, 1237.5 267 C 1238.6 267, 1246.7 259.5, 1250.4 254.9 C 1260.8 242.2, 1268.6 223.2, 1271.6 203 C 1274.1 186.6, 1274.7 114.9, 1272.5 94.6 C 1267.3 46.8, 1245.5 16.4, 1209.0 6.3 L 1200.5 4.0 1132.7 4.0 L 1064.9 4 1065.2 238.7 M 279 255.5 L 279 463.0 298.7 462.7 L 318.5 462.5 319 310.5 L 319.5 158.6 328.0 168.0 C 341.1 182.5, 341.8 183.3, 344.5 186.0 L 347 188.5 347 325.8 L 347 463.0 362.7 462.7 L 378.5 462.5 378.7 344 L 379.0 225.5 384.7 231.6 C 387.9 235.0, 392.9 240.6, 396 244.1 C 399.0 247.5, 403.0 252.1, 405 254.1 C 409.4 258.9, 410.0 259.6, 424 275.4 C 430.3 282.6, 436.4 289.4, 437.5 290.5 C 438.6 291.6, 442.2 295.7, 445.5 299.4 C 448.8 303.2, 452.6 307.5, 454.0 308.9 C 455.4 310.3, 461.0 316.6, 466.4 323 C 471.8 329.3, 479.2 337.6, 482.9 341.5 C 486.5 345.4, 491.9 351.5, 495 354.9 C 498.0 358.4, 501.8 362.7, 503.5 364.5 C 505.1 366.2, 509.4 371.0, 513 375.0 C 518.9 381.7, 529.1 393.2, 545.3 411.3 C 548.7 415.1, 552.6 419.4, 554 420.8 C 557.5 424.7, 569.1 437.7, 579.9 450 C 585.0 455.7, 590.1 461.2, 591.2 462.2 C 593.0 463.8, 595.7 464.0, 621.2 463.7 C 652.2 463.4, 652.4 463.4, 646.8 457.6 C 642.8 453.5, 642.5 453.1, 628.0 436.5 C 621.8 429.3, 615.7 422.6, 614.5 421.5 C 613.4 420.4, 609.5 416.1, 606.0 412 C 599.5 404.4, 595.2 399.6, 591.4 395.6 C 590.2 394.4, 584.0 387.4, 577.5 380 C 559.3 359.2, 551.7 350.8, 548.5 347.5 C 546.8 345.8, 542.5 341.1, 539 337.0 C 533.6 330.9, 517.7 313.1, 502.7 296.5 C 496.4 289.5, 495.2 288.1, 488.9 281 C 485.3 276.8, 480.6 271.7, 478.6 269.5 C 476.5 267.3, 472.7 263.0, 470.1 260 C 462.9 251.5, 449.7 236.6, 448.3 235.5 C 447.7 234.9, 443.6 230.4, 439.4 225.5 C 435.1 220.5, 429.9 214.7, 427.9 212.5 C 425.9 210.3, 420.2 204, 415.4 198.5 C 410.6 193, 405.3 187.1, 403.7 185.5 C 399.5 181.0, 397.9 179.2, 390.3 170.5 C 386.5 166.1, 382.3 161.3, 380.9 159.9 C 379.6 158.5, 374 152.2, 368.5 145.9 C 363 139.6, 357.3 133.3, 356 131.9 C 354.6 130.5, 350.5 126.0, 347.0 121.9 C 343.5 117.8, 339.4 113.3, 338.0 111.8 C 336.6 110.4, 332.7 106.1, 329.4 102.3 C 326.0 98.5, 318.6 90.3, 313.0 84 C 307.3 77.6, 299.9 69.4, 296.6 65.6 C 284.8 52.4, 280.6 48, 279.8 48 C 279.3 48, 279 141.3, 279 255.5 M 1119.2 49.6 C 1118.2 50.0, 1118 70.0, 1118 145.0 L 1118 240 1145.2 239.9 C 1182.4 239.9, 1190.8 238.2, 1204.2 228.1 C 1212.5 221.9, 1218.5 209.1, 1220.9 192.4 C 1222.2 183.4, 1222.2 106.6, 1220.9 97.5 C 1216.5 66.3, 1203.2 52.2, 1176.2 50.0 C 1164.2 49.0, 1121.5 48.7, 1119.2 49.6 M 1123.1 57.3 C 1122.2 58.3, 1122.0 82.5, 1122.2 146.6 L 1122.5 234.5 1134 234.5 L 1145.5 234.5 1145.7 146.6 C 1145.9 82.5, 1145.7 58.3, 1144.8 57.3 C 1144.0 56.3, 1141.0 56, 1134 56 C 1126.9 56, 1123.9 56.3, 1123.1 57.3 M 1122.4 295.2 C 1122.2 295.9, 1122.1 336.5, 1122.2 385.5 L 1122.5 474.5 1134 474.5 L 1145.5 474.5 1145.5 384.5 L 1145.5 294.5 1134.2 294.2 C 1125.7 294.0, 1122.8 294.2, 1122.4 295.2';
+export const WORD_PATH = 'M 9.0 4.9 C 9.0 5.8, 16.5 14.7, 21.4 19.5 C 22.5 20.6, 25.9 24.4, 29.0 27.9 C 38.6 39.1, 39.7 40.3, 45.2 46.5 C 57.9 60.5, 63.0 66.2, 73.0 77.5 C 78.7 84.0, 84.8 90.8, 86.5 92.6 C 88.1 94.3, 92.2 98.8, 95.6 102.6 C 109.8 118.6, 122.6 132.9, 128.3 139.4 C 131.7 143.2, 135.8 147.8, 137.5 149.5 C 139.1 151.3, 142.9 155.5, 146.0 159.0 C 149.0 162.5, 152.2 166.1, 153.1 167.0 C 153.9 167.9, 161.4 176.3, 169.5 185.6 C 177.7 194.8, 185.5 203.6, 186.9 205.0 C 188.3 206.4, 191.9 210.4, 195.0 213.8 C 198.0 217.3, 201.6 221.3, 202.9 222.8 C 204.3 224.3, 210.6 231.3, 216.9 238.5 C 229.6 253.0, 232.1 255.8, 236.5 260.4 C 238.1 262.1, 241.9 266.4, 245.0 269.9 C 248.0 273.4, 251.4 277.2, 252.6 278.4 C 253.7 279.5, 257.9 284.3, 261.9 289.0 C 265.9 293.6, 273.3 301.9, 278.3 307.4 C 288.7 318.7, 292.6 323.1, 296.5 327.6 C 297.9 329.3, 300.3 332.0, 301.8 333.6 C 303.2 335.2, 309.8 342.5, 316.3 350.0 C 322.9 357.4, 328.6 363.7, 329.0 364.0 C 329.4 364.2, 332.9 368.3, 336.9 373.0 C 340.9 377.6, 345.4 382.7, 346.8 384.1 C 350.8 388.2, 354.0 391.8, 361.0 400.0 C 366.3 406.2, 376.3 417.4, 389.6 432.0 C 394.1 436.9, 398.6 441.9, 404.0 448.0 C 407.0 451.5, 411.4 456.5, 413.8 459.1 L 418.2 464.0 447.0 464.0 C 462.9 464.0, 476.1 463.6, 476.4 463.1 C 477.2 461.8, 477.3 42.0, 476.5 41.2 C 476.1 40.8, 474.0 42.5, 471.7 45.0 C 469.4 47.4, 463.1 54.3, 457.5 60.3 C 452.0 66.3, 447.2 71.5, 447.0 71.9 C 446.5 72.7, 427.6 93.1, 421.0 100.0 C 419.0 102.0, 413.2 108.3, 408.0 114.0 C 394.7 128.5, 385.1 139.0, 382.0 142.1 C 380.6 143.5, 377.0 147.5, 374.0 150.9 C 370.9 154.4, 365.8 160.1, 362.5 163.5 C 333.7 193.9, 308.0 222.4, 308.0 223.7 C 308.0 224.5, 309.4 226.8, 311.1 228.8 C 315.0 233.3, 329.7 249.5, 332.7 252.7 L 335.0 255.1 337.9 253.0 C 339.6 251.8, 341.3 250.2, 341.7 249.5 C 342.3 248.4, 354.1 235.5, 365.5 223.5 C 367.1 221.7, 372.5 215.9, 377.5 210.5 C 382.4 205.1, 388.2 198.8, 390.3 196.6 C 392.5 194.4, 398.3 188.0, 403.3 182.5 C 408.3 177.0, 417.4 167.1, 423.6 160.5 C 429.7 153.9, 435.9 147.1, 437.3 145.5 C 438.7 143.8, 440.0 142.7, 440.4 143.0 C 440.7 143.4, 440.8 206.1, 440.7 282.5 L 440.5 421.5 438.0 418.9 C 436.6 417.5, 433.0 413.5, 430.0 410.0 C 426.9 406.5, 423.5 402.7, 422.4 401.5 C 421.3 400.4, 416.4 395.0, 411.5 389.5 C 406.6 384.0, 401.6 378.5, 400.5 377.4 C 399.4 376.2, 396.0 372.4, 393.0 368.9 C 388.0 363.1, 383.8 358.5, 378.1 352.5 C 377.1 351.4, 370.9 344.4, 364.5 337.0 C 352.2 322.9, 339.2 308.4, 335.0 304.0 C 333.6 302.6, 327.8 296.1, 322.1 289.5 C 316.4 282.9, 308.0 273.4, 303.5 268.5 C 298.9 263.5, 293.3 257.2, 291.0 254.5 C 286.7 249.4, 284.4 246.9, 279.9 242.1 C 278.5 240.7, 272.0 233.4, 265.5 226.0 C 244.1 201.7, 239.5 196.5, 236.5 193.5 C 234.8 191.8, 230.3 186.8, 226.5 182.4 C 222.6 178.0, 215.4 170.0, 210.5 164.5 C 205.5 159.0, 198.3 150.9, 194.5 146.5 C 190.7 142.1, 186.4 137.3, 185.0 135.8 C 183.6 134.4, 181.1 131.7, 179.5 129.8 C 177.8 127.9, 173.5 123.0, 169.8 118.9 C 166.2 114.8, 157.5 104.9, 150.4 97.0 C 143.3 89.0, 137.1 82.0, 136.4 81.5 C 135.8 80.9, 131.7 76.4, 127.4 71.5 C 123.1 66.5, 119.3 62.2, 119.0 62.0 C 118.6 61.7, 111.5 53.6, 103.0 44.0 C 94.6 34.3, 87.2 26.0, 86.5 25.5 C 85.8 24.9, 82.0 20.7, 78.0 16.0 C 66.6 2.8, 70.5 4.0, 37.5 4.0 C 19.4 4.0, 9.0 4.3, 9.0 4.9 M 407.9 7.2 C 403.0 11.9, 361.3 57.1, 345.9 74.4 C 343.4 77.2, 339.2 81.8, 336.4 84.7 C 328.5 92.9, 299.6 124.2, 285.5 139.9 C 281.2 144.6, 269.1 157.7, 262.7 164.4 C 258.0 169.4, 258.0 169.3, 264.0 176.0 C 266.7 179.0, 271.8 184.6, 275.2 188.4 C 285.4 199.7, 286.6 201.0, 287.6 201.0 C 288.8 201.0, 292.3 197.5, 299.5 189.4 C 302.8 185.6, 306.6 181.4, 308.0 180.0 C 310.8 177.2, 333.2 153.0, 338.9 146.5 C 340.9 144.3, 344.3 140.6, 346.5 138.4 C 348.7 136.1, 354.3 130.0, 359.0 124.9 C 370.6 112.3, 372.5 110.1, 379.4 102.8 C 382.7 99.3, 392.6 88.6, 401.3 79.0 C 410.1 69.3, 418.7 59.9, 420.6 58.0 C 426.8 51.4, 435.4 42.1, 441.5 35.4 C 444.8 31.8, 449.9 26.2, 452.9 23.1 C 460.8 15.0, 469.0 5.6, 469.0 4.7 C 469.0 4.3, 456.0 4.0, 440.1 4.0 L 411.3 4.0 407.9 7.2 M 4.0 255.5 L 4.0 463.0 23.7 462.7 L 43.5 462.5 44.0 310.5 L 44.5 158.6 53.0 168.0 C 66.1 182.5, 66.8 183.3, 69.5 186.0 L 72.0 188.5 72.0 325.8 L 72.0 463.0 87.7 462.7 L 103.5 462.5 103.7 344.0 L 104.0 225.5 109.7 231.6 C 112.9 235.0, 117.9 240.6, 121.0 244.1 C 124.0 247.5, 128.0 252.1, 130.0 254.1 C 134.4 258.9, 135.0 259.6, 149.0 275.4 C 155.3 282.6, 161.4 289.4, 162.5 290.5 C 163.6 291.6, 167.2 295.7, 170.5 299.4 C 173.8 303.2, 177.6 307.5, 179.0 308.9 C 180.4 310.3, 186.0 316.6, 191.4 323.0 C 196.8 329.3, 204.2 337.6, 207.9 341.5 C 211.5 345.4, 216.9 351.5, 220.0 354.9 C 223.0 358.4, 226.8 362.7, 228.5 364.5 C 230.1 366.2, 234.4 371.0, 238.0 375.0 C 243.9 381.7, 254.1 393.2, 270.3 411.3 C 273.7 415.1, 277.6 419.4, 279.0 420.8 C 282.5 424.7, 294.1 437.7, 304.9 450.0 C 310.0 455.7, 315.1 461.2, 316.2 462.2 C 318.0 463.8, 320.7 464.0, 346.2 463.7 C 377.2 463.4, 377.4 463.4, 371.8 457.6 C 367.8 453.5, 367.5 453.1, 353.0 436.5 C 346.8 429.3, 340.7 422.6, 339.5 421.5 C 338.4 420.4, 334.5 416.1, 331.0 412.0 C 324.5 404.4, 320.2 399.6, 316.4 395.6 C 315.2 394.4, 309.0 387.4, 302.5 380.0 C 284.3 359.2, 276.7 350.8, 273.5 347.5 C 271.8 345.8, 267.5 341.1, 264.0 337.0 C 258.6 330.9, 242.7 313.1, 227.7 296.5 C 221.4 289.5, 220.2 288.1, 213.9 281.0 C 210.3 276.8, 205.6 271.7, 203.6 269.5 C 201.5 267.3, 197.7 263.0, 195.1 260.0 C 187.9 251.5, 174.7 236.6, 173.3 235.5 C 172.7 234.9, 168.6 230.4, 164.4 225.5 C 160.1 220.5, 154.9 214.7, 152.9 212.5 C 150.9 210.3, 145.2 204.0, 140.4 198.5 C 135.6 193.0, 130.3 187.1, 128.7 185.5 C 124.5 181.0, 122.9 179.2, 115.3 170.5 C 111.5 166.1, 107.3 161.3, 105.9 159.9 C 104.6 158.5, 99.0 152.2, 93.5 145.9 C 88.0 139.6, 82.3 133.3, 81.0 131.9 C 79.6 130.5, 75.5 126.0, 72.0 121.9 C 68.5 117.8, 64.4 113.3, 63.0 111.8 C 61.6 110.4, 57.7 106.1, 54.4 102.3 C 51.0 98.5, 43.6 90.3, 38.0 84.0 C 32.3 77.6, 24.9 69.4, 21.6 65.6 C 9.8 52.4, 5.6 48.0, 4.8 48.0 C 4.3 48.0, 4.0 141.3, 4.0 255.5 M 499.0 5.5 C 499.0 6.3, 499.8 10.9, 500.8 15.7 C 501.9 20.5, 503.0 26.7, 503.4 29.5 C 503.8 32.2, 505.1 39.6, 506.5 46.0 C 507.8 52.3, 509.5 61.5, 510.4 66.5 C 511.2 71.4, 512.6 79.1, 513.5 83.5 C 514.3 87.9, 516.4 98.9, 518.1 108.0 C 519.8 117.0, 522.3 130.1, 523.7 137.0 C 525.1 143.8, 526.6 152.4, 527.0 156.0 C 527.5 159.5, 528.7 166.3, 529.9 171.0 C 531.0 175.6, 532.4 183.0, 533.0 187.3 C 533.6 191.6, 535.4 200.9, 537.0 207.8 C 538.6 214.8, 539.9 221.7, 539.9 223.2 C 539.9 224.7, 541.3 231.9, 542.8 239.2 C 544.4 246.5, 546.0 254.9, 546.4 258.0 C 546.8 261.0, 548.0 267.3, 549.1 271.9 C 550.1 276.6, 551.5 283.8, 552.1 287.9 C 552.6 292.1, 554.0 299.1, 555.0 303.5 C 556.0 307.9, 557.6 316.1, 558.4 321.7 C 559.2 327.4, 560.6 334.6, 561.4 337.8 C 562.2 341.0, 563.4 347.2, 564.0 351.6 C 564.6 355.9, 566.0 363.2, 567.1 367.8 C 568.1 372.5, 569.4 379.4, 570.0 383.3 C 570.5 387.3, 572.3 396.8, 573.9 404.5 C 578.0 423.9, 582.0 444.8, 583.6 455.5 C 584.4 460.5, 585.6 466.6, 586.3 469.0 L 587.5 473.5 625.8 473.7 L 664.0 474.0 664.8 471.7 C 665.8 469.2, 667.2 462.0, 671.9 436.0 C 673.7 426.3, 676.4 411.9, 678.1 404.0 C 679.7 396.0, 681.5 386.5, 682.0 383.0 C 682.5 379.4, 684.1 371.1, 685.4 364.5 C 686.7 357.9, 689.2 344.6, 691.0 335.0 C 692.7 325.3, 695.1 313.0, 696.1 307.5 C 697.2 302.0, 698.7 293.4, 699.5 288.5 C 700.4 283.5, 702.1 274.3, 703.4 268.0 C 704.7 261.6, 706.2 253.5, 706.7 250.0 C 708.0 241.4, 711.4 224.0, 715.1 206.0 C 716.8 198.0, 718.7 187.4, 719.5 182.5 C 720.3 177.5, 721.6 170.3, 722.5 166.5 C 723.3 162.6, 724.5 156.3, 725.0 152.5 C 725.6 148.6, 727.1 140.3, 728.4 134.0 C 732.4 114.4, 737.0 89.5, 737.0 88.0 C 736.9 87.1, 738.2 79.9, 739.8 72.0 C 742.5 59.1, 745.6 42.6, 750.4 16.0 C 751.3 11.3, 752.0 6.7, 752.0 5.7 C 752.0 4.1, 750.1 4.0, 728.0 4.0 L 704.0 4.0 703.0 7.6 C 702.5 9.6, 701.5 14.7, 700.9 18.8 C 700.3 23.0, 698.7 31.4, 697.4 37.5 C 696.0 43.5, 694.5 51.8, 694.0 56.0 C 693.5 60.1, 692.1 67.3, 691.0 72.0 C 689.9 76.6, 688.6 84.2, 688.0 88.7 C 687.5 93.2, 686.3 99.6, 685.5 102.9 C 684.6 106.2, 683.2 113.5, 682.4 119.2 C 681.5 124.8, 680.0 132.8, 679.0 137.0 C 677.9 141.1, 676.6 148.1, 675.9 152.5 C 675.2 156.9, 673.6 165.4, 672.3 171.5 C 671.0 177.5, 669.5 185.8, 669.0 190.0 C 668.4 194.1, 667.1 201.2, 666.0 205.8 C 664.9 210.3, 663.7 216.6, 663.3 219.8 C 663.0 222.9, 661.7 230.0, 660.4 235.6 C 659.1 241.2, 657.6 249.3, 657.0 253.6 C 656.5 257.9, 654.9 266.4, 653.5 272.5 C 652.1 278.5, 651.0 284.6, 651.0 286.0 C 651.0 287.3, 649.4 295.9, 647.5 305.0 C 645.6 314.0, 643.6 324.2, 643.1 327.5 C 642.6 330.8, 641.2 338.6, 640.0 345.0 C 636.7 362.1, 632.3 385.3, 630.5 395.4 C 628.1 408.3, 627.5 408.5, 625.7 397.3 C 624.8 391.9, 623.1 382.7, 622.0 377.0 C 620.9 371.2, 618.6 358.8, 616.9 349.5 C 615.1 340.1, 612.2 325.2, 610.3 316.2 C 608.5 307.3, 607.0 299.0, 607.0 297.7 C 607.0 296.5, 605.7 288.9, 604.1 281.0 C 598.7 254.4, 596.7 243.5, 595.3 234.8 C 594.6 230.0, 593.3 223.0, 592.4 219.3 C 591.6 215.5, 590.2 208.3, 589.4 203.1 C 588.6 198.0, 587.1 189.7, 586.0 184.6 C 584.9 179.6, 583.8 173.4, 583.4 171.0 C 582.7 165.8, 578.3 142.5, 573.9 121.0 C 572.3 113.0, 570.6 103.3, 570.0 99.5 C 569.5 95.6, 568.1 88.2, 566.9 83.0 C 565.8 77.7, 564.4 70.1, 563.8 66.0 C 563.3 61.8, 561.9 54.8, 560.9 50.3 C 559.8 45.8, 558.5 38.7, 558.0 34.5 C 557.4 30.3, 556.1 23.2, 555.1 18.7 C 554.0 14.2, 552.8 9.0, 552.5 7.2 L 551.8 4.0 525.4 4.0 C 502.5 4.0, 499.0 4.2, 499.0 5.5 M 559.6 4.8 C 559.3 5.2, 559.9 8.9, 560.9 13.0 C 562.0 17.1, 563.3 24.3, 564.0 29.0 C 564.6 33.6, 566.0 41.1, 567.0 45.6 C 568.1 50.1, 569.4 57.2, 570.0 61.6 C 570.5 65.9, 572.1 74.1, 573.5 79.9 C 574.9 85.7, 576.5 94.1, 577.0 98.5 C 577.6 102.9, 578.9 110.3, 580.0 115.0 C 581.1 119.6, 582.5 127.0, 583.0 131.3 C 583.6 135.6, 585.1 143.7, 586.4 149.3 C 587.7 154.9, 589.0 162.2, 589.4 165.5 C 589.7 168.8, 590.9 175.1, 591.9 179.5 C 593.0 183.9, 594.5 192.1, 595.4 197.7 C 596.2 203.4, 597.6 210.7, 598.5 214.0 C 599.3 217.3, 600.5 223.7, 601.0 228.2 C 601.6 232.7, 602.9 240.1, 604.0 244.5 C 605.1 248.9, 606.5 255.8, 607.0 260.0 C 607.5 264.1, 609.3 273.5, 610.9 281.0 C 612.5 288.4, 614.2 297.4, 614.7 301.0 C 615.2 304.5, 616.6 312.4, 617.8 318.5 C 619.0 324.5, 620.6 333.1, 621.4 337.5 C 622.2 341.9, 623.5 348.8, 624.3 353.0 C 625.1 357.1, 626.2 362.9, 626.6 366.0 C 627.8 373.7, 629.2 372.8, 630.7 363.5 C 631.4 359.1, 633.1 349.4, 634.5 342.0 C 635.9 334.5, 637.7 324.2, 638.4 319.0 C 639.2 313.7, 640.7 305.0, 641.8 299.5 C 642.9 294.0, 644.2 286.1, 644.8 282.0 C 645.4 277.8, 647.0 269.1, 648.4 262.5 L 651.0 250.5 647.5 234.0 C 645.6 224.9, 643.6 214.5, 643.1 211.0 C 642.5 207.4, 641.2 200.0, 640.1 194.5 C 639.0 189.0, 636.7 176.6, 635.0 167.0 C 633.2 157.3, 630.5 142.7, 629.0 134.5 C 627.4 126.2, 624.7 111.6, 623.0 102.0 C 621.2 92.3, 618.7 79.1, 617.4 72.5 C 616.1 65.9, 614.3 56.0, 613.4 50.5 C 612.5 45.0, 610.9 36.9, 609.9 32.5 C 608.8 28.1, 607.5 20.7, 606.9 16.0 C 605.3 2.9, 607.4 4.0, 582.0 4.0 C 569.9 4.0, 559.8 4.3, 559.6 4.8 M 802.6 4.6 C 802.3 5.0, 802.0 87.4, 802.0 187.9 C 802.0 391.1, 801.9 387.7, 808.3 408.5 C 822.7 454.9, 851.2 476.1, 902.5 478.6 C 922.5 479.6, 954.9 473.1, 963.0 466.5 C 963.8 465.8, 966.5 464.1, 969.1 462.6 C 974.3 459.7, 985.9 448.5, 989.8 442.6 C 998.1 430.3, 1005.1 415.8, 1006.8 407.3 C 1007.3 404.6, 1008.8 398.2, 1010.1 393.0 L 1012.5 383.5 1012.5 194.0 L 1012.5 4.5 988.5 4.2 C 970.0 4.0, 964.4 4.2, 963.8 5.2 C 963.3 5.9, 963.0 90.0, 963.0 192.1 C 962.9 390.9, 963.1 382.5, 958.1 397.0 C 954.4 407.7, 947.5 417.7, 941.2 421.3 C 940.1 421.9, 937.9 423.2, 936.2 424.1 C 926.0 430.0, 906.2 431.5, 891.3 427.6 C 872.1 422.6, 862.2 411.1, 856.6 387.4 L 854.0 376.3 854.0 191.7 C 854.0 90.2, 853.7 6.4, 853.3 5.5 C 852.8 4.1, 849.6 4.0, 828.0 4.0 C 814.4 4.0, 803.0 4.3, 802.6 4.6 M 860.2 192.2 L 860.6 380.5 863.1 389.0 C 866.8 401.1, 871.5 409.3, 878.3 415.6 C 881.5 418.5, 884.5 421.0, 885.0 421.0 C 885.6 421.0, 886.0 342.4, 886.0 212.5 L 886.0 4.0 872.9 4.0 L 859.9 4.0 860.2 192.2 M 1065.2 238.7 L 1065.5 473.5 1090.9 473.7 C 1110.6 473.9, 1116.5 473.7, 1117.1 472.7 C 1117.6 472.0, 1117.9 430.0, 1117.9 379.3 L 1118.0 287.1 1150.7 286.7 C 1168.7 286.4, 1187.3 285.7, 1192.0 285.1 C 1202.0 283.7, 1218.6 278.5, 1225.2 274.7 C 1227.7 273.2, 1230.2 272.0, 1230.7 272.0 C 1231.2 272.0, 1232.7 270.8, 1234.0 269.5 C 1235.2 268.1, 1236.8 267.0, 1237.5 267.0 C 1238.6 267.0, 1246.7 259.5, 1250.4 254.9 C 1260.8 242.2, 1268.6 223.2, 1271.6 203.0 C 1274.1 186.6, 1274.7 114.9, 1272.5 94.6 C 1267.3 46.8, 1245.5 16.4, 1209.0 6.3 L 1200.5 4.0 1132.7 4.0 L 1064.9 4.0 1065.2 238.7 M 1119.2 49.6 C 1118.2 50.0, 1118.0 70.0, 1118.0 145.0 L 1118.0 240.0 1145.2 239.9 C 1182.4 239.9, 1190.8 238.2, 1204.2 228.1 C 1212.5 221.9, 1218.5 209.1, 1220.9 192.4 C 1222.2 183.4, 1222.2 106.6, 1220.9 97.5 C 1216.5 66.3, 1203.2 52.2, 1176.2 50.0 C 1164.2 49.0, 1121.5 48.7, 1119.2 49.6 M 1123.1 57.3 C 1122.2 58.3, 1122.0 82.5, 1122.2 146.6 L 1122.5 234.5 1134.0 234.5 L 1145.5 234.5 1145.7 146.6 C 1145.9 82.5, 1145.7 58.3, 1144.8 57.3 C 1144.0 56.3, 1141.0 56.0, 1134.0 56.0 C 1126.9 56.0, 1123.9 56.3, 1123.1 57.3 M 1122.4 295.2 C 1122.2 295.9, 1122.1 336.5, 1122.2 385.5 L 1122.5 474.5 1134.0 474.5 L 1145.5 474.5 1145.5 384.5 L 1145.5 294.5 1134.2 294.2 C 1125.7 294.0, 1122.8 294.2, 1122.4 295.2';

diff --git a/index.html b/index.html
@@ -43,7 +43,7 @@
           "alternateName": "NVUP Agência e Produtora",
           "description": "Agência e produtora audiovisual: captação, edição, motion, color grading e gestão de conteúdo para redes sociais.",
           "url": "https://vinicarv.com.br/",
-          "logo": "https://vinicarv.com.br/logo-vnup.png",
+          "logo": "https://vinicarv.com.br/logo-nvup.png",
           "image": "https://vinicarv.com.br/og-image.png",
           "email": "vinysilva1914@gmail.com",
           "telephone": "+55-11-93536-0112",
